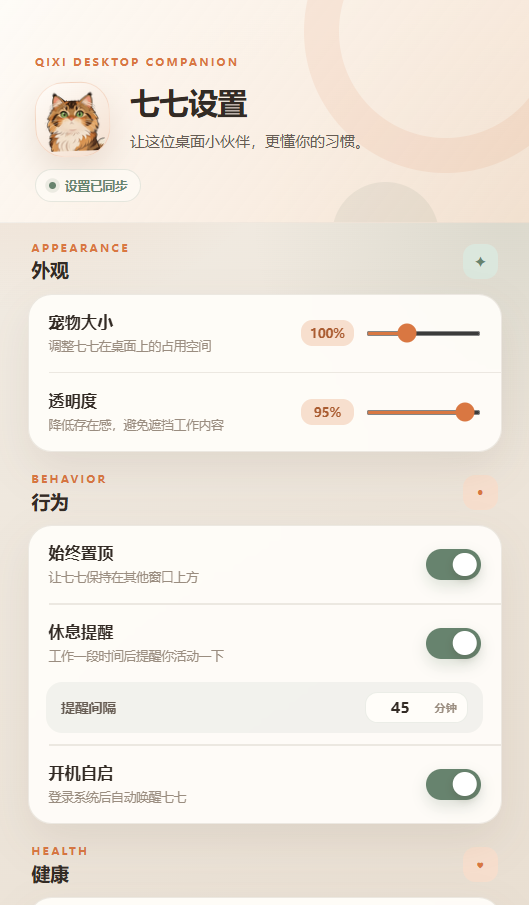
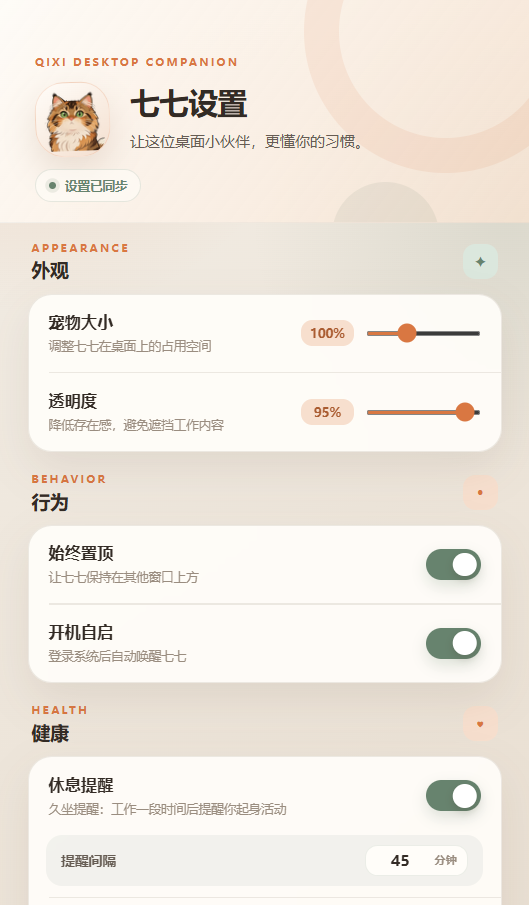
feat: 休息提醒归入健康栏并加单实例锁
- 久坐提醒从「行为」移入「健康」区块首位，喝水/眼操间隔标签区分
- 主进程加 requestSingleInstanceLock：旧实例共存会以旧字段集
  覆写 settings.json（新字段丢失、开关回弹），二次启动改为唤起
  已有实例

Changed region(s): [[0.0302, 0.6807, 0.9679, 1.0]]

diff --git a/src/renderer/settings.html b/src/renderer/settings.html
@@ -89,27 +89,6 @@
 
           <div class="setting-row compact-row">
             <div class="setting-copy">
-              <label for="reminder-enabled">休息提醒</label>
-              <p>工作一段时间后提醒你活动一下</p>
-            </div>
-            <label class="switch" aria-label="休息提醒">
-              <input type="checkbox" id="reminder-enabled" checked>
-              <span class="switch-track"><span class="switch-thumb"></span></span>
-            </label>
-          </div>
-
-          <div class="sub-setting" id="interval-group">
-            <label for="reminder-interval">提醒间隔</label>
-            <div class="number-control">
-              <input type="number" id="reminder-interval" min="1" max="999" step="1" value="45">
-              <span>分钟</span>
-            </div>
-          </div>
-
-          <div class="divider"></div>
-
-          <div class="setting-row compact-row">
-            <div class="setting-copy">
               <label for="autolaunch">开机自启</label>
               <p>登录系统后自动唤醒七七</p>
             </div>
@@ -131,6 +110,27 @@
         </div>
 
         <div class="panel behavior-panel">
+          <div class="setting-row compact-row">
+            <div class="setting-copy">
+              <label for="reminder-enabled">休息提醒</label>
+              <p>久坐提醒：工作一段时间后提醒你起身活动</p>
+            </div>
+            <label class="switch" aria-label="休息提醒">
+              <input type="checkbox" id="reminder-enabled" checked>
+              <span class="switch-track"><span class="switch-thumb"></span></span>
+            </label>
+          </div>
+
+          <div class="sub-setting" id="interval-group">
+            <label for="reminder-interval">提醒间隔</label>
+            <div class="number-control">
+              <input type="number" id="reminder-interval" min="1" max="999" step="1" value="45">
+              <span>分钟</span>
+            </div>
+          </div>
+
+          <div class="divider"></div>
+
           <div class="setting-row compact-row">
             <div class="setting-copy">
               <label for="pomodoro-enabled">番茄钟模式</label>
@@ -172,7 +172,7 @@
           </div>
 
           <div class="sub-setting" id="drink-interval-group">
-            <label for="drink-interval">提醒间隔</label>
+            <label for="drink-interval">喝水间隔</label>
             <div class="number-control">
               <input type="number" id="drink-interval" min="5" max="999" step="1" value="60">
               <span>分钟</span>
@@ -193,7 +193,7 @@
           </div>
 
           <div class="sub-setting" id="eye-interval-group">
-            <label for="eye-interval">提醒间隔</label>
+            <label for="eye-interval">眼操间隔</label>
             <div class="number-control">
               <input type="number" id="eye-interval" min="5" max="999" step="1" value="45">
               <span>分钟</span>

diff --git a/src/main.js b/src/main.js
@@ -21,6 +21,18 @@ const {
   getDailyStats,
 } = require('./shared/app-logic');
 
+// 单实例锁：旧实例与新实例共存会互相覆盖 settings.json（旧主进程不认新字段），后来者直接退出并唤起已有实例
+const gotSingleInstanceLock = app.requestSingleInstanceLock();
+if (!gotSingleInstanceLock) {
+  app.quit();
+} else {
+  app.on('second-instance', () => {
+    if (mainWindow && !mainWindow.isDestroyed()) {
+      mainWindow.isVisible() ? mainWindow.focus() : mainWindow.showInactive();
+    }
+  });
+}
+
 const IS_SMOKE_TEST = process.env.QIXI_SMOKE_TEST === '1';
 const SETTINGS_PATH = IS_SMOKE_TEST
   ? path.join(app.getPath('temp'), `qixi-pet-smoke-${process.pid}.json`)
@@ -533,7 +545,7 @@ ipcMain.handle('stats:query', (event) => {
   return getTodayStats();
 });
 
-app.whenReady().then(() => {
+if (gotSingleInstanceLock) app.whenReady().then(() => {
   if (!IS_SMOKE_TEST) applyAutoLaunch(settings.autoLaunch);
   createWindow();
   if (!IS_SMOKE_TEST) createTray();
